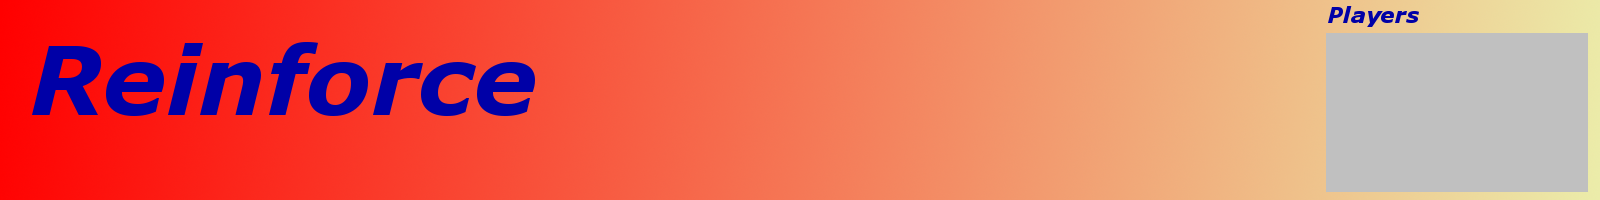
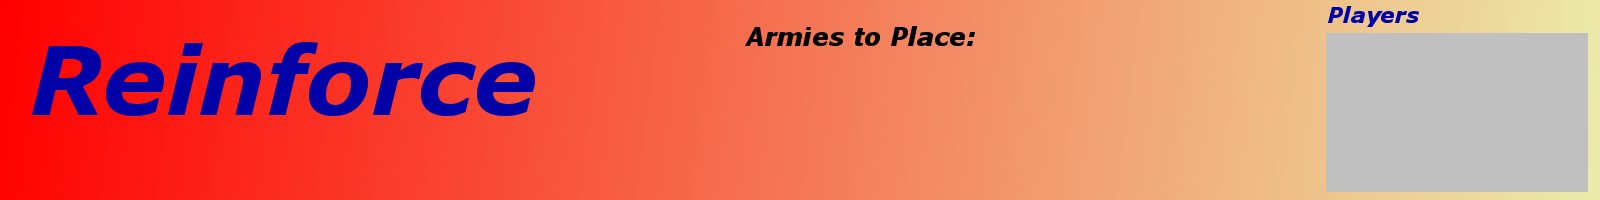
Added counter to indicate how many armies can be placed

Changed region(s): [[0.4688, 0.12, 0.625, 0.24]]

diff --git a/src/Game.cpp b/src/Game.cpp
@@ -127,6 +127,11 @@ bool Game::gameStart() {
 	arrowTxtr.loadFromFile("Resources/images/arrow.png");
 	arrow.setTexture(arrowTxtr);
     arrow.setPosition(1275,40);
+    armyLeftText.setFont(font);
+    armyLeftText.setPosition(985,23);
+    armyLeftText.setCharacterSize(40);
+    armyLeftText.setColor(Color::Black);
+    armyLeftText.setString(intToString(armies));
 
     while (armies>0) {
 		for (unsigned int i = 0; i<players.size(); ++i) {
@@ -135,6 +140,7 @@ bool Game::gameStart() {
 				return true;
 		}
 		armies--;
+		armyLeftText.setString(intToString(armies));
     }
 
 	return false;
@@ -185,6 +191,7 @@ void Game::render() {
 		for (unsigned int i = 0; i<players.size(); ++i) {
 			window.draw(playerRects[i]);
 		}
+		window.draw(armyLeftText);
 		window.draw(arrow);
 		break;
 	case Main:

diff --git a/include/Game.hpp b/include/Game.hpp
@@ -35,9 +35,11 @@ class Game {
 	sf::Sprite lobbyBgnd, startBgnd, mainBgnd;
 	Map* rMap;
 	sf::Font font;
+
 	sf::Texture arrowTxtr;
 	sf::Sprite arrow;
 	sf::RectangleShape playerRects[6];
+	sf::Text armyLeftText;
 
 	/**
 	 * Internal enum used for determining which menu to render
